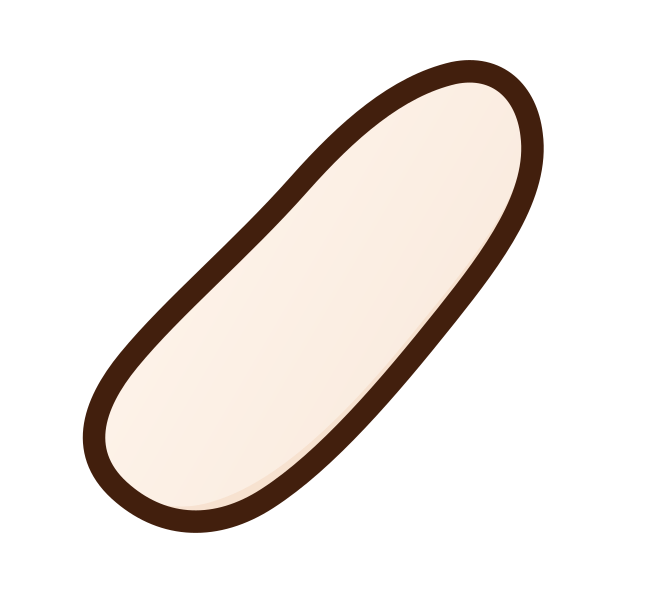
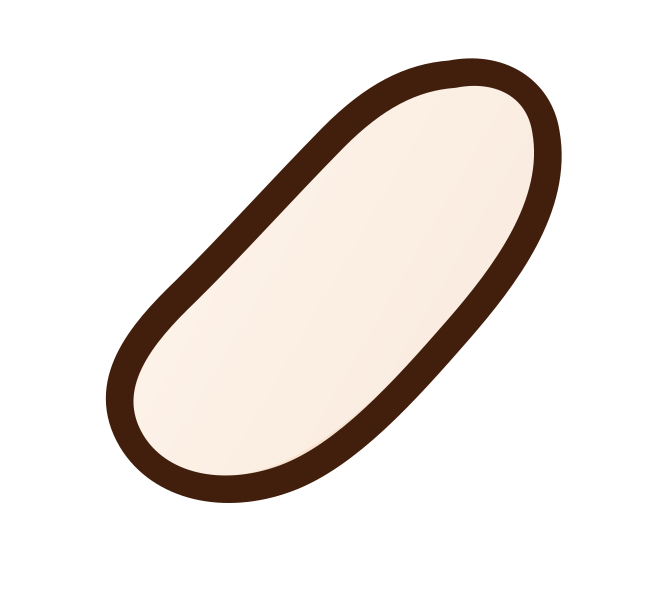
Redraw Popa's bare arms with shorter, rounder proportions

diff --git a/game/game.js b/game/game.js
@@ -3,7 +3,7 @@ import {loadPropAppearance} from '../shared/prop-appearance.js?v=2';
 import { startFurnitureSession } from './furniture-session.js?v=2';
 import { validateFurnitureInteraction } from '../shared/furniture-interaction.js?v=2';
 import { FLOOR_START, FLOOR_ITEMS, floorBounds, nearestFree, walkable, roomPath, slideStep, constrainFloorFurniture } from './room-navigation.js';
-import { createWardrobe } from './wardrobe.js?v=bare-arms5';
+import { createWardrobe } from './wardrobe.js?v=rounded-arms6';
 import { mountRoomEditor } from './room-editor.js?v=published-room2';
 import {mountProp} from '../shared/prop-rig.js?v=closed-fit5';
 import { createPopa } from '../popa-browser.js';

diff --git a/game.html b/game.html
@@ -35,6 +35,6 @@
     <section class="shop-card"><span class="shop-icon">▧</span><div><h2>נגיעה של צבע לבית</h2><p id="shop-text">שטיח פרחוני לפינה האהובה על פופה</p></div></section></div>
     <footer><p id="record">כל הרפתקה מתחילה בצעד קטן.</p><a href="index.html">לסטודיו האנימציה ↗</a><button id="sound" aria-pressed="false">צליל כבוי ♫</button><span id="save-status">ההתקדמות נשמרת בדפדפן הזה</span></footer>
   </main>
-  <script type="module" src="./game/game.js?v=bare-arms25"></script>
+  <script type="module" src="./game/game.js?v=rounded-arms26"></script>
 </body>
 </html>

diff --git a/cat-character.js b/cat-character.js
@@ -2,7 +2,7 @@ import { mountCharacterReferences } from './character-references.js?v=appearance
 import { createCatExpressions } from './cat-expressions.js';
 import { createCatAnimations } from './cat-animations.js';
 import { mountLayoutEditor } from './cat-layout-editor.js';
-import { mountOutfitEditor } from './popa-outfit-editor.js?v=bare-arms13';
+import { mountOutfitEditor } from './popa-outfit-editor.js?v=rounded-arms14';
 import { mountCatEditor } from './cat-editor.js?v=sitting-demo2';
 const character = document.querySelector('.cat-character');
 const wrapper = document.querySelector('.cat-wrapper');

diff --git a/index.html b/index.html
@@ -42,6 +42,6 @@
 
     <script>document.querySelector(".cat-frame").addEventListener("click",()=>{if(document.body.classList.contains("studio-play"))document.querySelector('[data-action="happy"]').click();});</script>
     <script src="vendor/gsap.min.js"></script>
-    <script type="module" src="cat-character.js?v=bare-arms21"></script>
+    <script type="module" src="cat-character.js?v=rounded-arms22"></script>
   </body>
 </html>

diff --git a/game/wardrobe.js b/game/wardrobe.js
@@ -1,4 +1,4 @@
-import { setOutfitBody } from '../shared/outfit-body.js?v=bare-arms';
+import { setOutfitBody } from '../shared/outfit-body.js?v=rounded-arms';
 // Fitted clothes use the same design canvas, artwork offsets and attachment transforms as the studio.
 export async function createWardrobe(popa) {
   const response=await fetch(new URL('../assets/characters/popa/outfits/catalog.json?v=published-fits-9',import.meta.url));

diff --git a/popa-outfit-editor.js b/popa-outfit-editor.js
@@ -1,4 +1,4 @@
-import { setOutfitBody } from './shared/outfit-body.js?v=bare-arms';
+import { setOutfitBody } from './shared/outfit-body.js?v=rounded-arms';
 // Placement drafts only. The game keeps its approved character until a look is integrated.
 const CATALOG = './assets/characters/popa/outfits/catalog.json?v=published-fits-9';
 const clone = value => structuredClone(value);

diff --git a/shared/outfit-body.js b/shared/outfit-body.js
@@ -18,7 +18,7 @@ export function setOutfitBody(character, wearingOutfit) {
       return {
         image,
         sleeved: image.src,
-        bare: new URL(`../assets/characters/popa/parts/${name}_bare.png`, import.meta.url).href,
+        bare: new URL(`../assets/characters/popa/parts/${name}_bare.png?v=rounded-2`, import.meta.url).href,
       };
     }));
   }

diff --git a/tests/popa-wardrobe-smoke.py b/tests/popa-wardrobe-smoke.py
@@ -10,7 +10,7 @@ with sync_playwright() as p:
  page.locator('[data-wear="cloud"]').click();page.wait_for_function('document.querySelector(".cat-character").dataset.outfit==="cloud"')
  assert page.locator('[data-worn-part]').count()==7
  for side in ['left','right']:
-  assert page.locator(f'[data-sprite="{side}_arm"]').get_attribute('src').endswith(f'/{side}_arm_bare.png')
+  assert page.locator(f'[data-sprite="{side}_arm"]').get_attribute('src').split('?')[0].endswith(f'/{side}_arm_bare.png')
  assert page.locator('[data-sprite="torso"]').evaluate('(e)=>e.style.clipPath')=='inset(0px 20% 60%)'
  assert page.locator('[data-sprite="flower"]').evaluate('(e)=>getComputedStyle(e).visibility')=='hidden'
  shirt=page.locator('[data-worn-part="pajama_body"]');sleeve=page.locator('[data-worn-part="sleeve_left"]')
